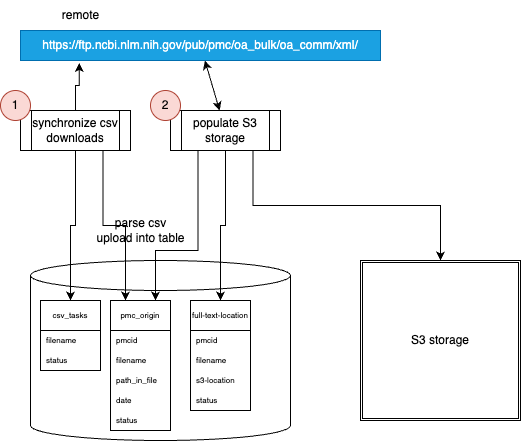
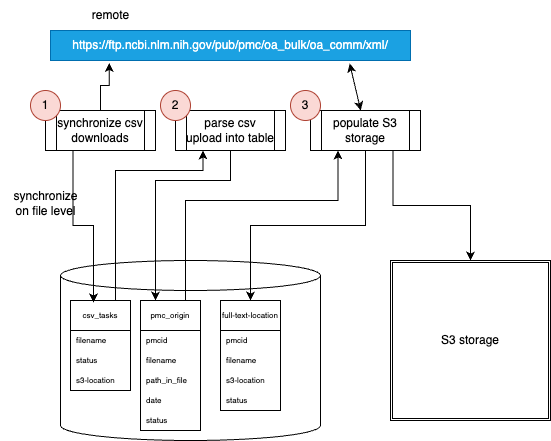
Updated design.

diff --git a/pubmed/data-digger-etl/README.md b/pubmed/data-digger-etl/README.md
@@ -148,12 +148,14 @@ We execute the download in 2 steps:
 
 ##### step &#9312;
 
-First we (daily) download any new csv files, keeping track in a regular `tasks` table in the `postgres` database of the files we have seen and not seen.
-While we synchronize, we parse the csv files and dump the entire contents of these files into the `pmc_origin` table. This table contains both the filename of origin (which is _not_ in the CSV file itself but rather the prefix of that file + `.tgz`) _and_ the relative path of the PMC record (this _is_ in the CSV file).
-Since there may be multiple versions for each PMC record we simply dump and defer decision on download/not download to a later stage.
-
+First we (daily) download any new csv files, keeping track in a regular `tasks` table in the `postgres` database of the files we have seen and not seen. The tar files we have seen we upload to S3 as a whole.
 
 ##### step &#9313;
+
+After we synchronize on bulk file (`tar.gz`) level, we parse the csv files and dump the entire contents of these files into the `pmc_origin` table. This table contains both the filename of origin (which is _not_ in the CSV file itself but rather the prefix of that file + `.tgz`) _and_ the relative path of the PMC record (this _is_ in the CSV file).
+Since there may be multiple versions for each PMC record we simply dump and defer decision on download/not download to a later stage.
+
+##### step &#9314;
 
 Then we (daily) look at the `pmc_origin` table and add the following to the `full_text_location` table:
 
